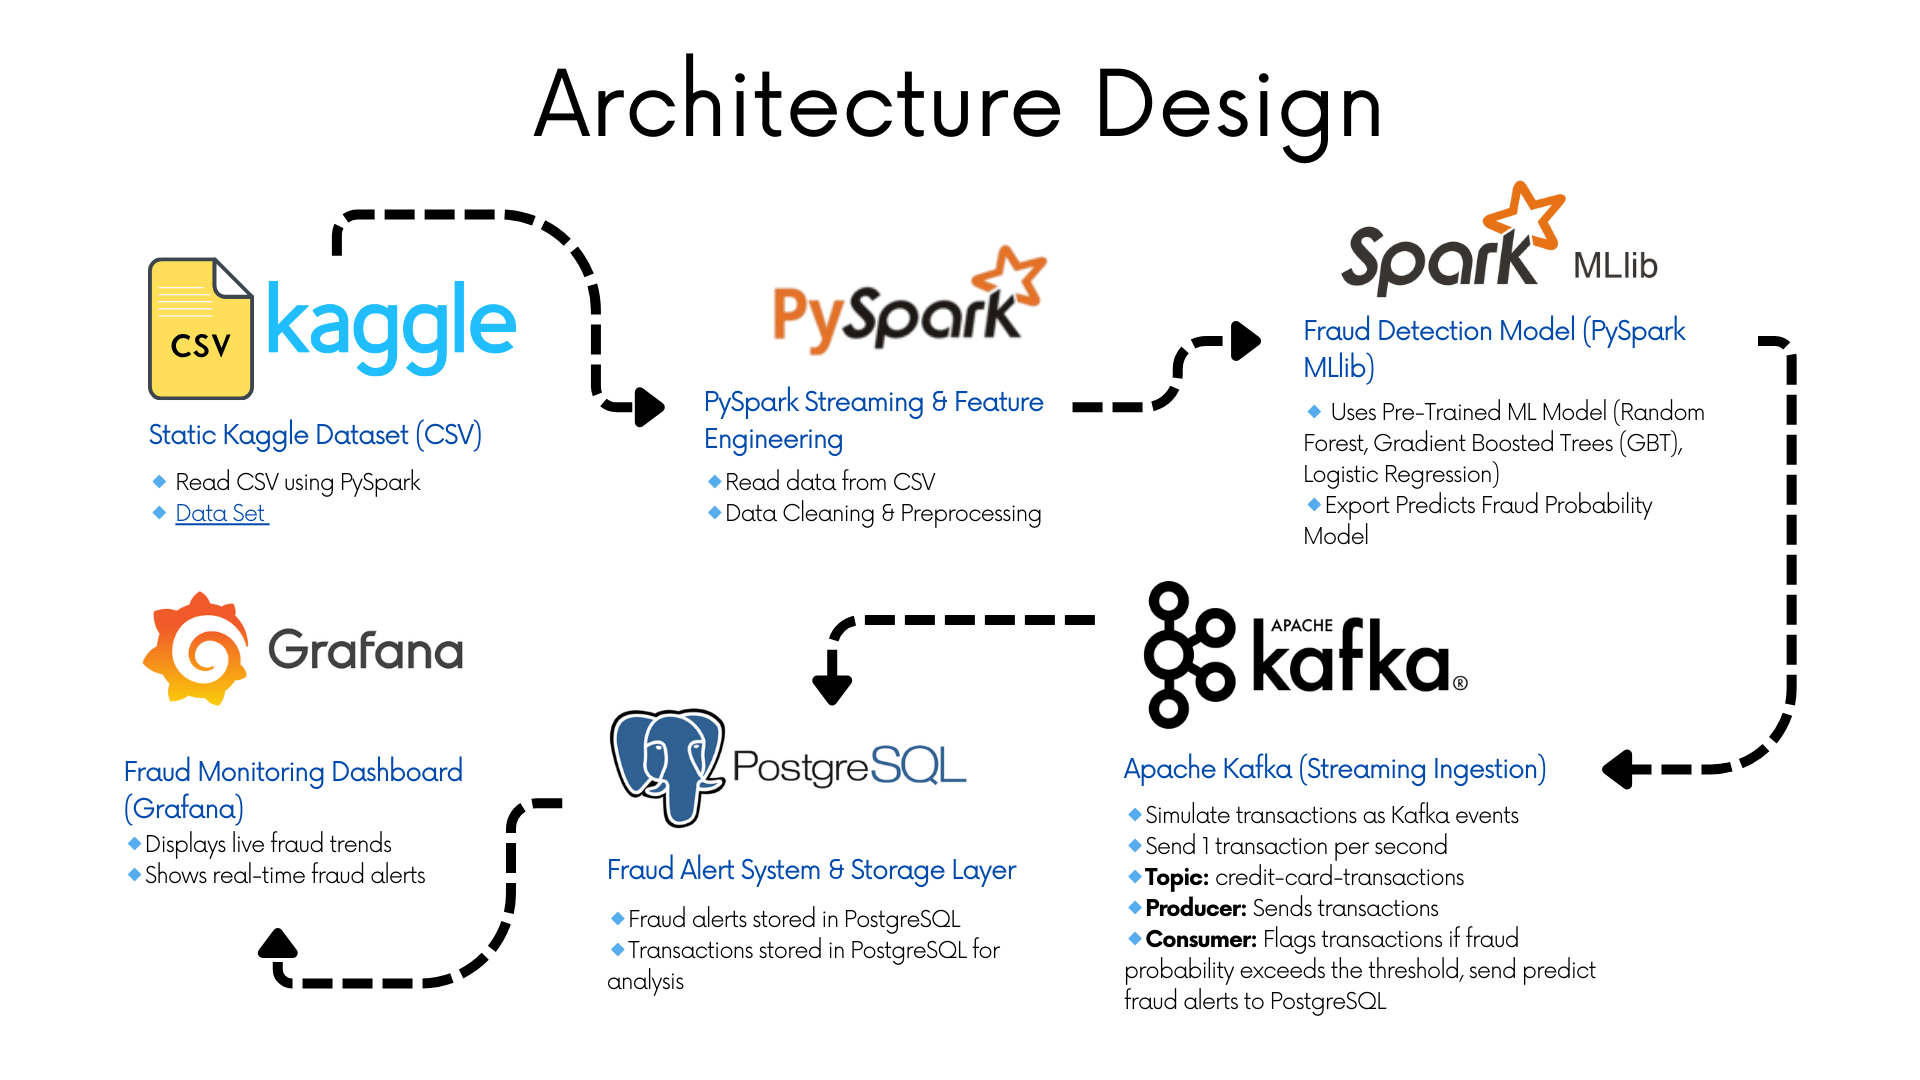
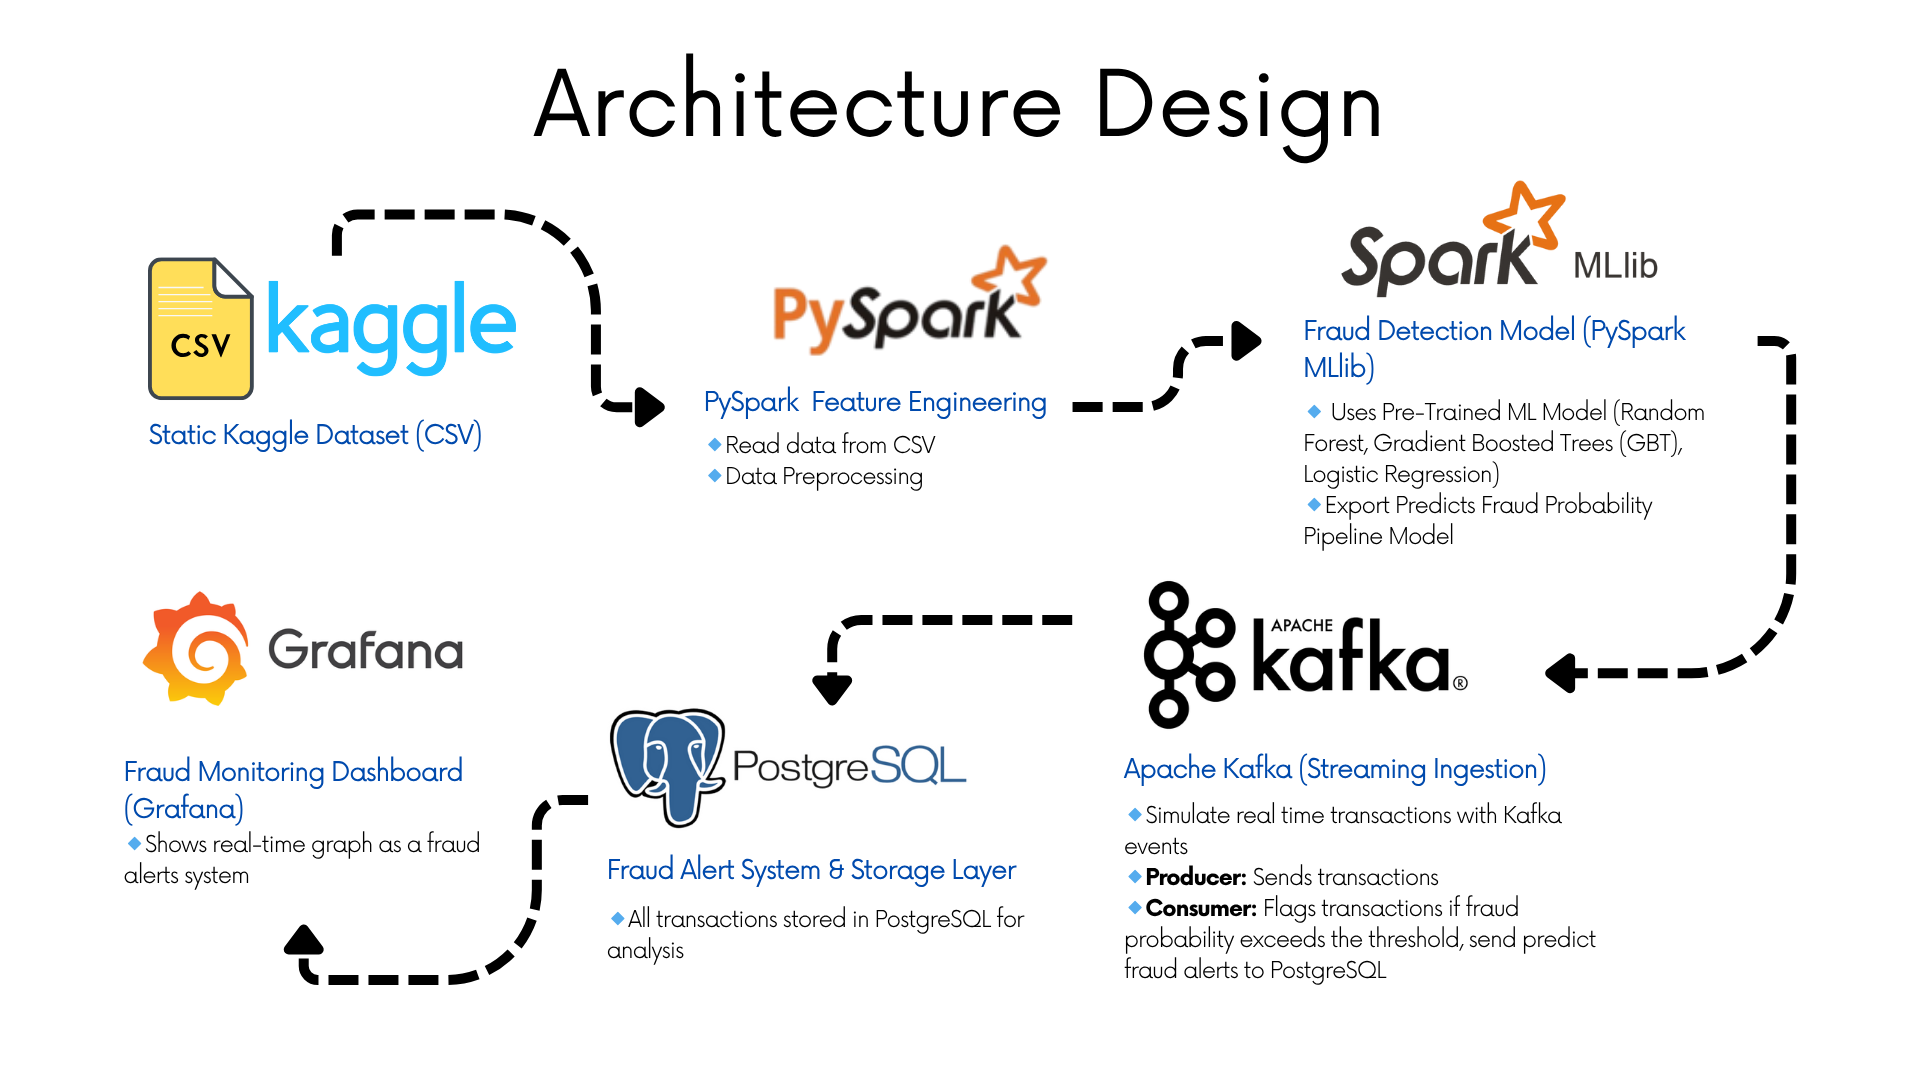
Update README.MD and README images

diff --git a/README.md b/README.md
@@ -1,7 +1,165 @@
 # Credit Card Fraud Detection (CCFD)
-Identify potential fraud credit card transaction utilising Pyspark MLlib and alert the detected transaction with grafana realtime graph.
 
-Technologies used:
+![GitHub License](https://img.shields.io/github/license/ISE-S46/CCFD?cacheSeconds=60)
+![GitHub repo size](https://img.shields.io/github/repo-size/ISE-S46/CCFD?cacheSeconds=60)
+![GitHub Issues or Pull Requests](https://img.shields.io/github/issues/ISE-S46/CCFD?cacheSeconds=60)
+![GitHub Issues or Pull Requests](https://img.shields.io/github/issues-pr/ISE-S46/CCFD?cacheSeconds=60)
+![Version](https://img.shields.io/badge/version-2.0-blue)
+
+A real-time credit card fraud detection system built with PySpark MLlib that processes transactions through Kafka streams and provides live monitoring via Grafana dashboards.
+
+
+## Features
+- **Data Processing**: Transforms, and prepares data for analysis.
+- **Machine Learning**: Train LogisticRegression, RandomForest, and GradientBoostTree Model, with the processed data.
+- **Pipeline Training**: Train Pipeline model based on the best performed ML model and processed data.
+- **Realtime Simulation**: Simulate realtime data log with Kafka and zookeeper.
+- **Fraud Detection**: Applied the pipeline model on realtime data log and stored transaction log PostgreSQL database.
+    - Every log will be stored in all_transactions table.
+    - Only fraud transaction will also be store in fraud_transactions table for easier detection.
+- **Alert System**: Plotting a graph of fraud transaction with grafana as an alert system.
+
+## Installation
+
+**Quick Start**: For a minimal setup, you only need to complete steps 1, 4, 6, 7, and 8.
+
+### Prerequisites
+- [Docker Desktop](https://www.docker.com/products/docker-desktop/) or Docker
+- Download [FraudTest.csv](https://www.kaggle.com/datasets/kartik2112/fraud-detection?resource=download&select=fraudTest.csv) and [FraudTrain.csv](https://www.kaggle.com/datasets/kartik2112/fraud-detection?resource=download&select=fraudTrain.csv)
+
+### 1. Clone the repository:
+```bash
+git clone https://github.com/ISE-S46/CCFD.git
+cd ccfd
+```
+
+### 2. (Optional) Jupyter/Pyspark-notebook Docker Container setup:
+- Run this container if you don't have pyspark installed in your machine 
+```bash
+docker build -t pyspark_env .
+docker run -d -p 8888:8888 -v ${pwd}:/app -p 4040:4040 --name pyspark_env pyspark_env 
+```
+- Access JupyterLab at http://localhost:8888 
+
+![JupyterWithPyspark](ReadmeImg/Jupyter.png)
+
+### 3. (Optional) Train Model:
+- Run TrainModel.ipynb in JupyterLab or on your local IDE.
+- The result should give the reason why GradientBoostTree model is chosen for pipeline training.
+
+### 4. Train Pipeline:
+- Run TrainPipeline.ipynb in JupyterLab or on your local machine.
+- Use fraudtrain.csv for pipeline training.
+
+### 5. (Optional) Evaluate Pipeline:
+- Run EvaluatePipeline.ipynb in JupyterLab or on your local machine.
+- Use fraudTest.csv for evaluation is recommended
+
+### 6. Create .env in root directory
+Example .env:
+```env
+# Kafka and Zookeeper Configuration
+ZOOKEEPER_CLIENT_PORT=2181
+ZOOKEEPER_TICK_TIME=2000
+KAFKA_BROKER_ID=1
+KAFKA_ZOOKEEPER_CONNECT=zookeeper:${ZOOKEEPER_CLIENT_PORT}
+KAFKA_ADVERTISED_LISTENERS=CLIENT://localhost:9092,INTERNAL://kafka:29092
+KAFKA_LISTENERS=CLIENT://0.0.0.0:9092,INTERNAL://0.0.0.0:29092
+KAFKA_INTER_BROKER_LISTENER_NAME=INTERNAL
+KAFKA_OFFSETS_TOPIC_REPLICATION_FACTOR=1
+KAFKA_GROUP_INITIAL_REBALANCE_DELAY_MS=0
+KAFKA_AUTO_CREATE_TOPICS_ENABLE=true
+KAFKA_TOPIC_NAME=raw_transactions
+
+# Spark Common Configuration
+SPARK_MASTER_URL=spark://spark-master:7077
+SPARK_RPC_AUTHENTICATION_ENABLED=no
+SPARK_RPC_ENCRYPTION_ENABLED=no
+SPARK_LOCAL_DIRS=/tmp/spark-events
+SPARK_LOG_DIR=/opt/bitnami/spark/logs
+SPARK_SERIALIZER=org.apache.spark.serializer.KryoSerializer
+SPARK_KAFKA_PACKAGE_VERSION=4.0.0
+
+# Spark Resource Allocation
+SPARK_WORKER_CORES=1
+SPARK_WORKER_MEMORY=1G
+SPARK_DRIVER_MEMORY=1g
+SPARK_EXECUTOR_MEMORY=1g
+SPARK_EXECUTOR_CORES=1
+SPARK_SQL_SHUFFLE_PARTITIONS=2
+SPARK_DRIVER_MAX_RESULT_SIZE=1g
+
+# Spark Consumer
+SPARK_STREAMING_TRIGGER_TIME=10 seconds
+SPARK_STREAMING_MAX_OFFSETS_PER_TRIGGER=1000
+CONSUMER_FRAUD_THRESHOLD=0.75
+
+# File used for producer
+PRODUCER_CSV_FILE=fraudTest.csv # Change this to Test.csv for testing
+PRODUCER_SAVE_INTERVAL=50
+
+# PostgreSQL Configuration (replace with whatever you like)
+POSTGRES_DB=CCFD_DB
+POSTGRES_USER=admin
+POSTGRES_PASSWORD=12345
+POSTGRES_HOST=postgres # (must be the same as service name in docker-compose.yml)
+POSTGRES_PORT=5432
+
+# Grafana Configuration
+GRAFANA_ADMIN_USER=admin
+GRAFANA_ADMIN_PASSWORD=12345
+```
+
+### 7. Docker Containers setup: 
+```bash
+docker-compose up --build -d
+```
+### 8. Configure Grafana Dashboard
+
+- Access Grafana at http://localhost:3000
+- In this example, username is admin and password is 12345 (From .env configuration).
+
+![Grafana](ReadmeImg/Grafana.png)
+
+- Click Toggle Menu button at the top left then select Dashboards.
+- Click Create Dashboard, then Add visualization, then select default PostgreSQL datasource as shown below.
+
+![GrafanaGraphSetup1](ReadmeImg/Graph1.png)
+
+- Select Code, then paste this code inside it, then press Run query.
+    - Replace actual_system_time with trans_date_trans_time for the real transaction time, drawback is that its harder to create the graph.
+```sql
+SELECT
+  actual_system_time,
+  is_fraud
+FROM
+  all_transactions
+WHERE
+  $__timeFilter(actual_system_time)
+ORDER BY
+  actual_system_time
+```
+
+![GrafanaGraphSetup2](ReadmeImg/Graph2.png)
+
+- Change panel title to "Fraud Transaction Prediction", and set time range to "Last 15 minutes" should give the result similar to below.
+    - This graph is plot with .env credential as below for easier visualization.
+
+    ```env
+    PRODUCER_CSV_FILE=Test.csv
+    ```
+
+![GrafanaGraph](ReadmeImg/Graph3.png)
+
+- Press save at the top right and the installation is completed.
+
+## Uninstall / Reinstall
+```bash
+docker-compose down -v --rmi all
+```
+
+
+## Technologies Used:
 - Pyspark
 - Pyspark MLlib
 - Kafka
@@ -9,75 +167,14 @@ Technologies used:
 - Grafana
 - Docker
 
-## Features
-- **Data Processing**: Transforms, and prepares data for analysis.
-- **Machine Learning**: Train LogisticRegression, RandomForest, and GradientBoostTree Model, with the processed data.
-- **Pipeline Training**: Train Pipeline model based on best performed ML model and processed data.
-- **Realtime Simulation**: Simulate realtime data log with Kafka and zookeeper.
-- **Fraud Detection**: Applied the pipeline model on realtime data log and stored log and fraud transaction log in seperated PostgreSQL database.
-- **Alert System**: Plotting a graph of fraud transaction with grafana as an alert system.
+## Architecture Design
 
 ![Architecture_Design](ReadmeImg/ArchitectureDesign.png)
 
-## Requirement
-- Docker/ Docker Desktop
+## Contributing
 
-### Datasets used:
-https://www.kaggle.com/datasets/kartik2112/fraud-detection?resource=download
+Contributions are welcome! If you have suggestions for improvements or bug fixes, please feel free to fork the repository and open a pull request.
 
-## Installation
+## License
 
-### Clone the repository:
-```bash
-git clone https://github.com/ISE-S46/CCFD.git
-cd ccfd
-```
-
-### Jupyter/Pyspark-notebook Docker Container setup (Optional):
-#### Run this container if you don't have pyspark installed in your machine 
-```bash
-docker build -t pyspark_env .
-docker run -d -p 8888:8888 -v ${pwd}:/app -p 4040:4040 --name pyspark_env pyspark_env 
-```
-### Access JupyterLab at http://localhost:8888 
-![JupyterWithPyspark](ReadmeImg/Jupyter.png)
-
-### Download the datasets
-#### Both fruafTrain.csv and fruadTest.csv from (Both of these files should be in the root directory of this project)
-https://www.kaggle.com/datasets/kartik2112/fraud-detection?resource=download
-
-### Train Model (Optional):
-- Run TrainModel.ipynb in JupyterLab or on your local machine.
-- Result should give the reason why GradientBoostTree model is chosen for pipeline training.
-
-### Train Pipeline:
-- Run TrainPipeline.ipynb in JupyterLab or on your local machine.
-
-### Evaluate Pipeline (Optional):
-- Run EvaluatePipeline.ipynb in JupyterLab or on your local machine.
-
-
-### Docker Containers setup: 
-```bash
-docker-compose up --build -d
-```
-
-### Grafana, PostgreSQL Docker Container setup:
-```bash
-docker network create fraud-detection-network
-docker-compose -f Database/docker-compose.yml up -d
-```
-
-## Grafana Setup
-
-### Access Grafana at http://localhost:3000
-#### In this example, username is admin and password is password.
-![Grafana](ReadmeImg/Grafana.png)
-
-### Creating graph
-![Grafana](ReadmeImg/Graph1.png)
-![Grafana](ReadmeImg/Graph2.png)
-
-### After every steps is complete the graph should look like this
-![Grafana](ReadmeImg/Graph3.png)
-
+See [LICENSE](LICENSE) file for details.
